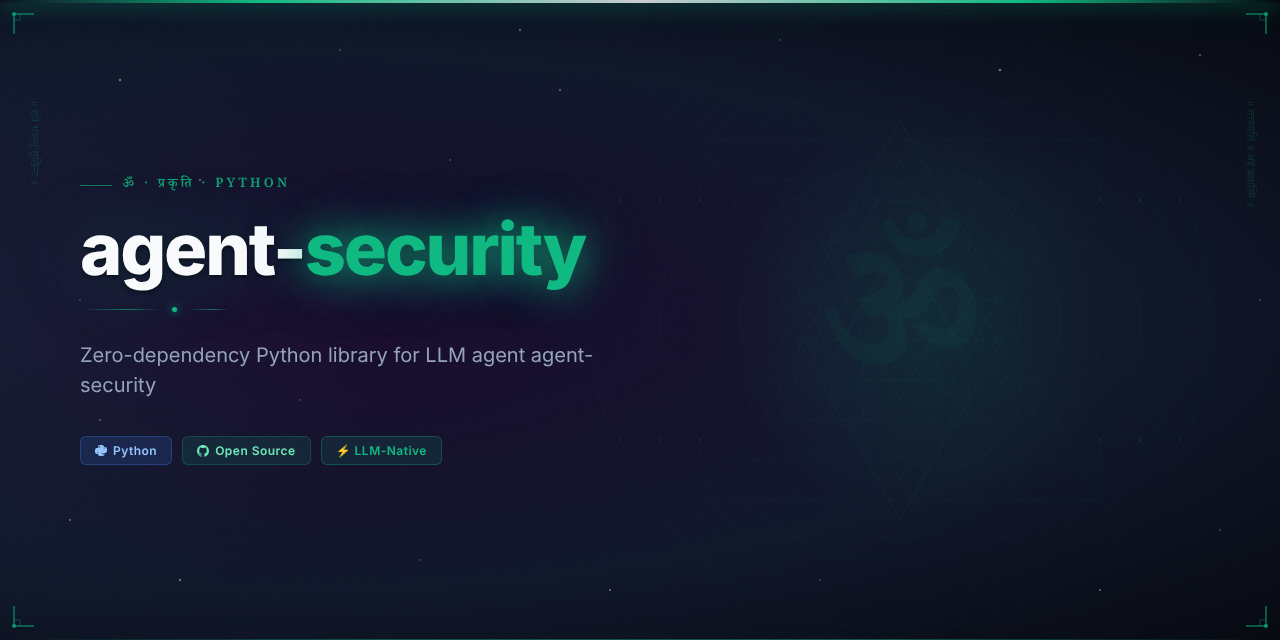
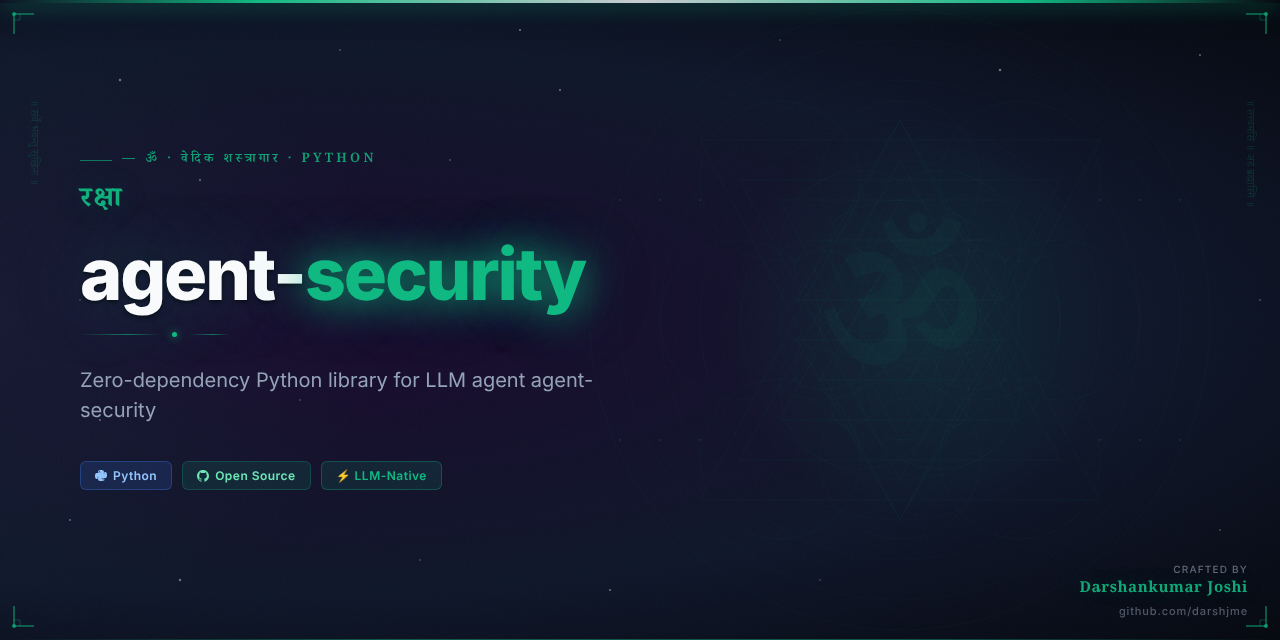
feat: add Vedic Arsenal hero image and updated README
Part of darshjme/arsenal — 100 production-grade Python libraries for LLM agents.
Vedic branding: ancient philosophy meets modern AI engineering.

diff --git a/README.md b/README.md
@@ -1,10 +1,12 @@
 <div align="center">
 
-<img src="assets/agent-security-hero.png" alt="agent-security — Vedic Arsenal" width="100%" />
+<img src="assets/agent-security-hero.png" alt="agent-security — Vedic Arsenal by Darshankumar Joshi" width="100%" />
 
 # 🌿 agent-security
 
-### *रक्षा* — Raksha — divine protection
+<h3><em>रक्षा</em></h3>
+
+> *Raksha — divine protection*
 
 **Zero-dependency Python library for LLM agent agent-security**
 
@@ -39,6 +41,19 @@ Or clone directly:
 git clone https://github.com/darshjme/agent-security.git
 cd agent-security
 pip install -e .
+```
+
+## How It Works
+
+```mermaid
+flowchart LR
+    A[Input] --> B[agent-security]
+    B --> C{Process}
+    C -- Success --> D[Output]
+    C -- Error --> E[Handle / Retry]
+    E --> B
+    style B fill:#6b21a8,color:#fff
+    note["Security — Zero Dependencies"]
 ```
 
 ## Quick Start
@@ -90,7 +105,7 @@ MIT — use freely, build freely.
 
 <div align="center">
 
-**Built with 🌿 by [Darshankumar Joshi](https://github.com/darshjme)**
+**Built with 🌿 by [Darshankumar Joshi](https://github.com/darshjme)** · [@thedarshanjoshi](https://twitter.com/thedarshanjoshi)
 
 *"कर्मण्येवाधिकारस्ते मा फलेषु कदाचन"*
 *Your right is to action alone, never to the fruits thereof.*
